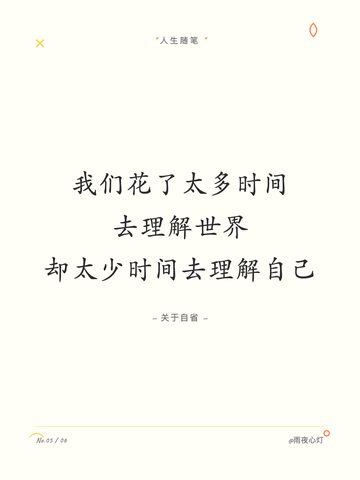
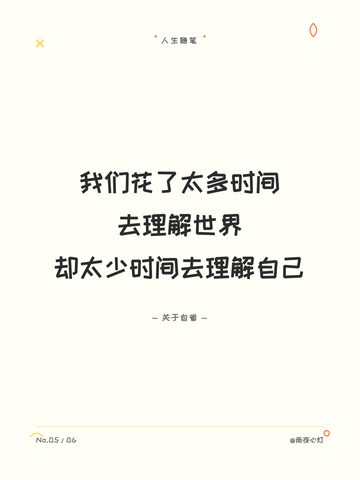
fix(xhs-image-note-release): doodle -> ZCOOL KuaiLe, steampunk -> Rye + Noto Serif SC

diff --git a/skills/xhs-image-note-release/references/card-generator/card_generator.py b/skills/xhs-image-note-release/references/card-generator/card_generator.py
@@ -73,12 +73,12 @@ THEMES = {
         "muted": "#6B6B6B",
         "accent": "#FF6B35",
         "accent2": "#FFD23F",
-        "font_main": "'Caveat', 'Permanent Marker', 'Chalkduster', 'Bradley Hand', 'Marker Felt', 'Kaiti SC', cursive",
-        "font_tag": "'Caveat', 'Chalkduster', 'Bradley Hand', 'Marker Felt', 'PingFang SC', cursive",
+        "font_main": "'ZCOOL KuaiLe', 'Caveat', 'PingFang SC', 'Microsoft YaHei', cursive",
+        "font_tag": "'ZCOOL KuaiLe', 'Caveat', 'PingFang SC', cursive",
         "quote_color": "#FF6B35",
         "deco": "doodles",
         "letter_spacing": 2,
-        "google_fonts": ["Caveat:wght@400;700", "Permanent Marker"],
+        "google_fonts": ["ZCOOL KuaiLe", "Caveat:wght@400;700"],
     },
     "pop": {
         "name": "渐变波普",
@@ -232,12 +232,12 @@ THEMES = {
         "muted": "#A08040",
         "accent": "#C8A830",
         "accent2": "#B87333",
-        "font_main": "'PingFang SC', 'Georgia', serif",
-        "font_tag": "'PingFang SC', 'Georgia', serif",
+        "font_main": "'Rye', 'Noto Serif SC', 'Songti SC', 'STSong', Georgia, serif",
+        "font_tag": "'Rye', 'Noto Serif SC', 'Songti SC', serif",
         "quote_color": "#C8A830",
         "deco": "steampunk",
         "letter_spacing": 3,
-        "google_fonts": [],
+        "google_fonts": ["Rye", "Noto Serif SC"],
     },
     # 09-A 小红书 · 简洁正式
     "xhs": {

diff --git a/skills/xhs-image-note-release/CHANGELOG.md b/skills/xhs-image-note-release/CHANGELOG.md
@@ -3,6 +3,12 @@
 All notable changes to this skill are documented here.
 Format loosely follows [Keep a Changelog](https://keepachangelog.com/); versions follow [SemVer](https://semver.org/).
 
+### v1.3.2 (2026-07-31)
+
+- **Fix**: `doodle` theme font now uses **ZCOOL KuaiLe** (站酷快乐体) from Google Fonts — a playful, rounded Chinese display font that matches the hand-drawn doodle decorations. Previously Caveat/Permanent Marker are Latin-only and silently fell back to system Songti/PingFang, which broke the playful style.
+- **Fix**: `steampunk` theme font now uses **Rye** (Western vintage slab) + **Noto Serif SC** from Google Fonts. Previously PingFang SC/Georgia looked too clean and modern for the dark brass/gear aesthetic; the new combination gives a vintage print feel consistent with steampunk.
+- **Docs**: README theme preview images regenerated for doodle and steampunk to reflect the new typography.
+
 ### v1.3.1 (2026-07-31)
 
 - **Fix**: XiaoHongShu style now has **two distinct modes** as originally documented in `text-to-elegant-image` repo: `xhs` = clean/formal mode, `xhs_rich` = lively/rich mode. Previously only the clean variant was implemented.

diff --git a/skills/xhs-image-note-release/SKILL.md b/skills/xhs-image-note-release/SKILL.md
@@ -1,6 +1,6 @@
 ---
 name: xhs-image-note-release
-version: 1.3.1
+version: 1.3.2
 description: >
   小红书图文笔记自动发布技能。通过 ego-browser 自动化完成图片上传、标题填写、正文编辑、
   话题标签、发布等全流程。核心解决了小红书发布按钮封装在 closed Shadow DOM 中无法点击的问题。
